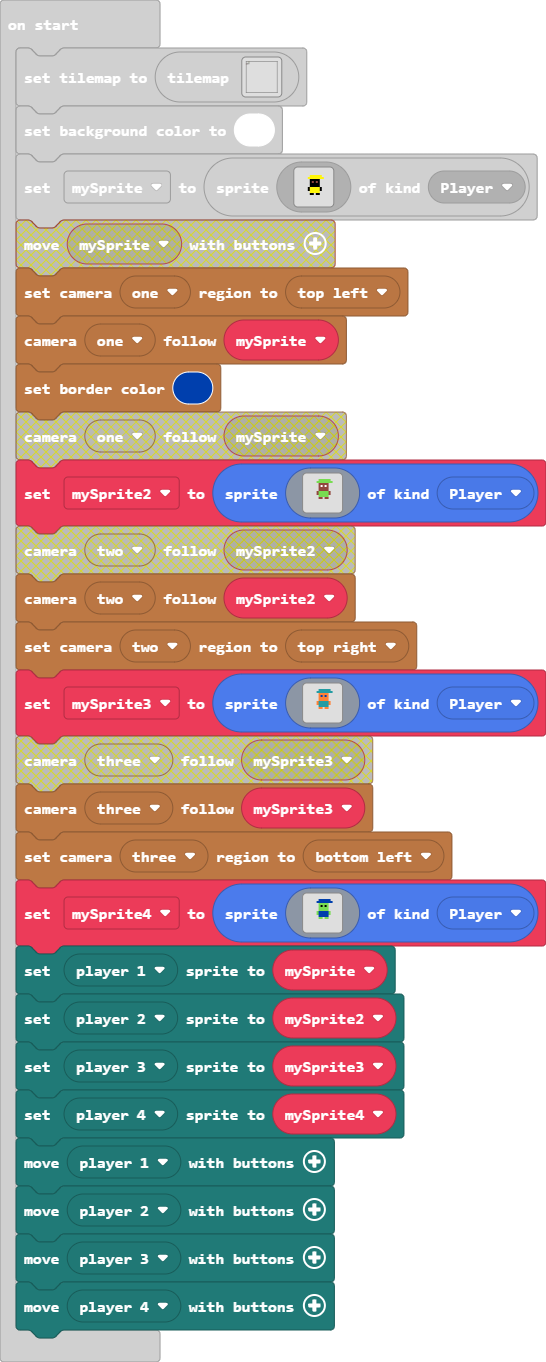
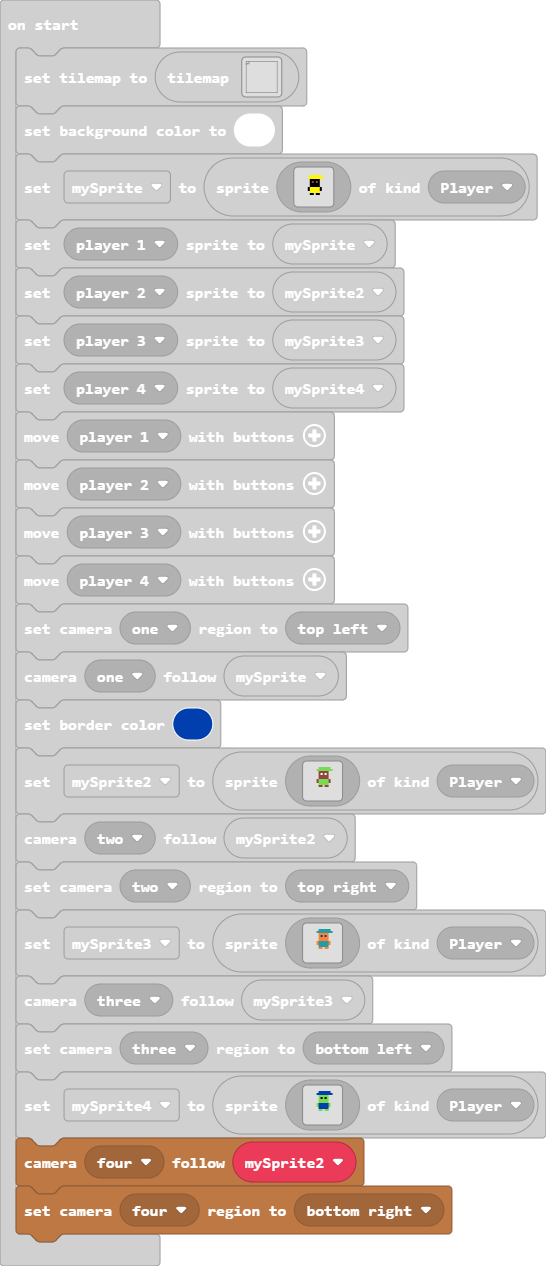
Update main.blocks, main.ts

diff --git a/main.ts b/main.ts
@@ -90,3 +90,5 @@ mySprite4 = sprites.create(img`
     . . . . . . . . . . . . . . . . 
     . . . . . . . . . . . . . . . . 
     `, SpriteKind.Player)
+splitScreen.cameraFollowSprite(splitScreen.Camera.Camera4, mySprite2)
+splitScreen.setCameraRegion(splitScreen.Camera.Camera4, splitScreen.CameraRegion.BottomRight)
